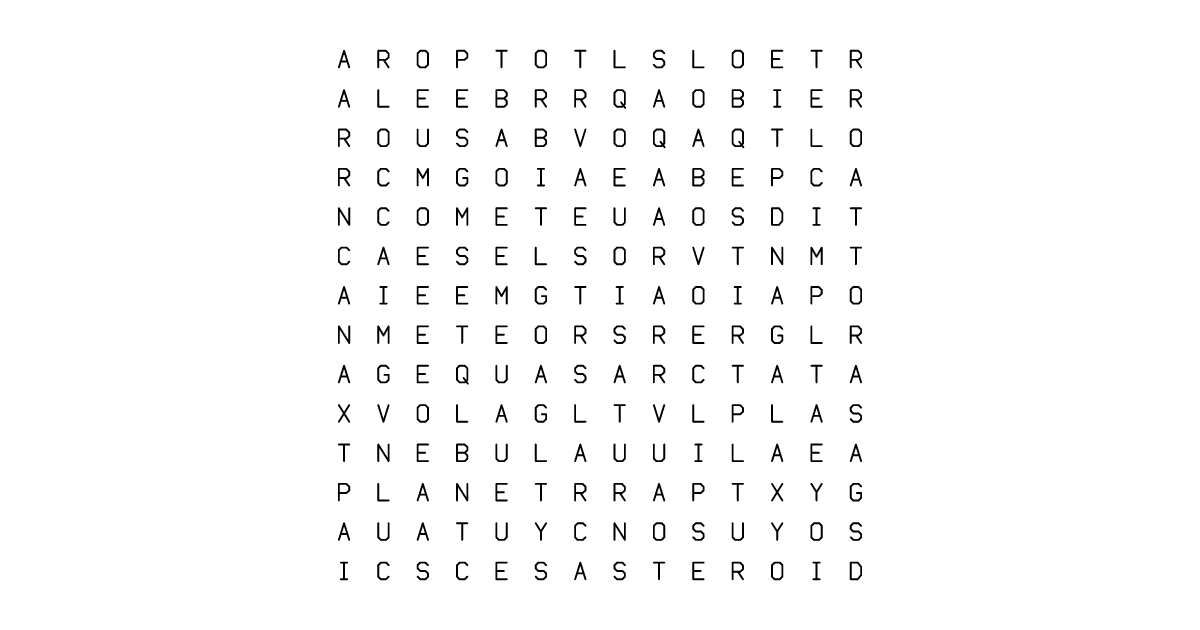
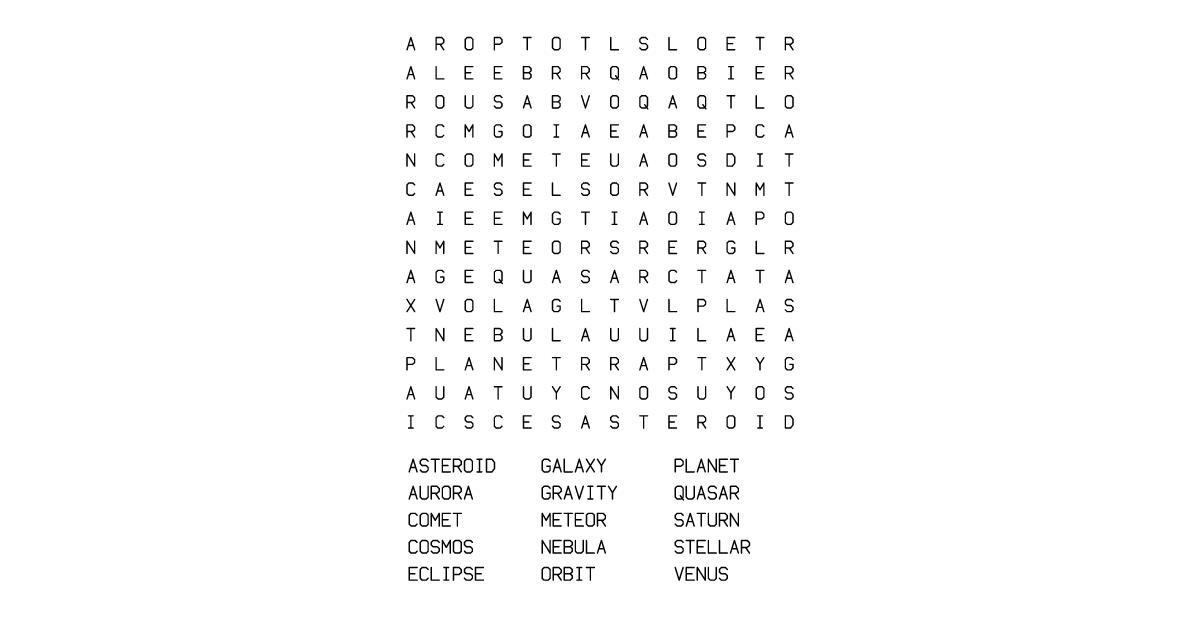
Wave 3: Spot the Difference (99 generators, 1,656 tests), word search pages with their word list, and a link to the book builder

diff --git a/src/lib/site.ts b/src/lib/site.ts
@@ -5,15 +5,15 @@ export const SITE = {
   name: 'Lakolam',
   tagline: 'Deterministic generative designs, mazes and puzzles',
   description:
-    'Lakolam is a generative engine: 98 generators for mandalas, kolams, mazes and logic puzzles, every page reproducible from a seed, every puzzle proven uniquely solvable — rendered as SVG, PNG or print-ready PDF.',
+    'Lakolam is a generative engine: 99 generators for mandalas, kolams, mazes and logic puzzles, every page reproducible from a seed, every puzzle proven uniquely solvable — rendered as SVG, PNG or print-ready PDF.',
   studio: 'https://app.lakolam.com',
   studioGpui: 'https://studio.lakolam.com',
   // The seed behind every image on this site — determinism as a brand asset.
   artSeed: '0xa11ce',
   stats: {
-    generators: 98,
-    tests: 1642,
-    crates: 108,
+    generators: 99,
+    tests: 1656,
+    crates: 109,
     profiles: 10,
   },
 } as const;

diff --git a/src/lib/jsonld.ts b/src/lib/jsonld.ts
@@ -75,7 +75,7 @@ export const softwareApplication = () => ({
   description:
     'A browser studio for the Lakolam engine: 55 deterministic generators for designs, mazes and puzzles, running entirely client-side as WebAssembly.',
   featureList: [
-    '98 generators: mandalas, kolams, tilings, mazes, sudoku, nonograms, crosswords and more',
+    '99 generators: mandalas, kolams, tilings, mazes, sudoku, nonograms, crosswords and more',
     'Deterministic output — same seed, same page, byte-identical',
     'Solver-proven unique solutions with technique-ladder difficulty',
     'Schema-driven controls generated from each generator’s own spec',

diff --git a/src/content/generators/spotdiff.md b/src/content/generators/spotdiff.md
@@ -1,0 +1,54 @@
+---
+title: "Spot the Difference"
+blurb: "Spot the difference — any generator's page twice, the second altered in several places"
+category: puzzle
+version: "1.0.0"
+---
+The same picture twice — but the second one has been changed in a handful of
+places. Find them all.
+
+## What it is
+
+Two copies of one picture, one above the other (or side by side). The second
+has been altered in five to twelve places: a shape removed, a shape recoloured,
+a small star, dot or heart added, or a patch of line work erased. The heading
+says how many changes there are; the answer key circles every one.
+
+## How to play
+
+Scan in strips, left to right, comparing the same small area in both pictures
+before moving on. Symmetric pictures help: a mandala's changed petal breaks the
+pattern its neighbours repeat. Count as you go — the number in the heading
+tells you when you are done.
+
+## Purpose
+
+Spot-the-difference is a staple of kids' activity books (about a tenth of
+their content) and of newspaper puzzle pages. It is also the catalogue's first
+generator built from the others: any design generator's page becomes the
+picture, so the format inherits the whole design lane.
+
+## History
+
+"Spot the difference" pictures have run in newspapers and children's
+magazines since the late 19th century; syndicated features such as *Hocus
+Focus* keep the form in daily papers.
+
+## This implementation
+
+- **Spec knobs:** `source` (any generator id; empty picks one of ten that make
+  good pictures — mandala, stained glass, zentangle, tessellation, voronoi,
+  truchet, celtic, apollonian, phyllotaxis, border), `differences` (0 picks
+  from the difficulty), `difficulty` (more and smaller changes as it rises),
+  `side_by_side`.
+- **Construction:** the source page is a display list, so a change is an edit
+  to it — removing or recolouring a shape of findable size, or adding a motif
+  or a white disc on top. Changes are spaced apart so each is its own find.
+- **Guarantees:** every change is tried on a copy and rasterised, and kept only
+  if at least a tenth of its area visibly changes. An edit to the display list
+  is not an edit to the picture — removing a shape another shape draws over, or
+  erasing blank paper, changes nothing a solver could find — so no difference
+  on the page is invisible, and the tests re-check every one against the
+  finished pictures. Deterministic per seed.
+- **Where it lives:** in `lako-catalog`, the one crate that sees every
+  generator; no generator crate depends on another.

diff --git a/src/content/generators/wordsearch.md b/src/content/generators/wordsearch.md
@@ -2,7 +2,7 @@
 title: "Word Search"
 blurb: "Themed word searches with distribution-matched filler and answer keys"
 category: word
-version: "1.0.0"
+version: "1.1.0"
 ---
 Find the listed words hidden in a grid of letters — across, down, and
 diagonally, forwards or backwards.
@@ -17,8 +17,7 @@ up to eight directions. The unused cells are filled with decoy letters.
 
 Scan for a word's rarest letter — a Q or a Z narrows candidates instantly.
 Sweep each row and column with the word's first two letters in mind, then
-check both diagonals. Circle finds and cross them off the list. In this
-crate's harder settings, leftover letters can spell a hidden message once
+check both diagonals. Circle finds and cross them off the list. On the harder settings, leftover letters can spell a hidden message once
 every word is found.
 
 ## Purpose

diff --git a/src/content/generators/cryptogram.md b/src/content/generators/cryptogram.md
@@ -16,8 +16,7 @@ breaks survive, which is what makes it solvable with a pencil.
 ## How to play
 
 One-letter words are A or I. The most frequent cipher letter is probably E,
-T, A or O; a frequency table (this crate prints one as an aux block) makes
-that concrete. Apostrophe patterns give T, S and N'T; double letters narrow
+T, A or O; a frequency table (printed alongside the puzzle) makes that concrete. Apostrophe patterns give T, S and N'T; double letters narrow
 fast (LL, EE, SS, OO). Guess a common short word, propagate its letters
 everywhere, and abandon the guess at the first contradiction — the cascade
 either confirms itself in a few words or collapses.

diff --git a/src/content/generators/labyrinth.md b/src/content/generators/labyrinth.md
@@ -22,9 +22,7 @@ centre.
 
 Trace the corridor with a finger or pencil from the entrance to the centre —
 there is exactly one way — or colour the corridor and the wall band as two
-regions. The `meanders` figure in the metadata counts how often the path
-reverses direction between inward and outward: a spiral scores 0, the
-classical seven scores 2, and seeded designs usually score more.
+regions. Count how often the path reverses between heading inward and heading outward: a spiral never does, the classical seven-circuit labyrinth does twice, and most designs here do more.
 
 ## Why it is in the catalogue
 

diff --git a/src/content/generators/sudoku.md b/src/content/generators/sudoku.md
@@ -38,8 +38,7 @@ Find a cell whose value is forced — a digit that can go nowhere else in its
 row, column or region — write it in, and repeat. Harder boards need candidate
 reasoning: mark which digits each empty cell can still take, then eliminate
 with pairs, triples, box–line interactions and fish patterns. A proper sudoku
-never requires guessing, and every puzzle from this crate is verified to be
-solvable by inference alone.
+never requires guessing, and every puzzle here is verified to be solvable by inference alone.
 
 ## Purpose
 

diff --git a/src/content/generators/sumsearch.md b/src/content/generators/sumsearch.md
@@ -17,8 +17,7 @@ to it. The answer key rings them.
 
 Work from the extremes. A target of 34 out of four digits needs 9+9+9+7 or
 better, so scan for clusters of nines; a low target needs a run of ones and
-twos. Middle targets are the hard ones — and this generator prints them only
-when they happen to be unique.
+twos. Middle targets are the hard ones — and they are printed only when they happen to be unique.
 
 ## Why it is in the catalogue
 

diff --git a/src/content/generators/wordle.md b/src/content/generators/wordle.md
@@ -2,7 +2,7 @@
 title: "Wordle Deduction"
 blurb: "Wordle deduction — deduce the hidden word from guesses and their colour feedback"
 category: word
-version: "1.0.0"
+version: "1.0.1"
 ---
 Someone has already played — read their guesses and the colours, and name
 the hidden five-letter word.
